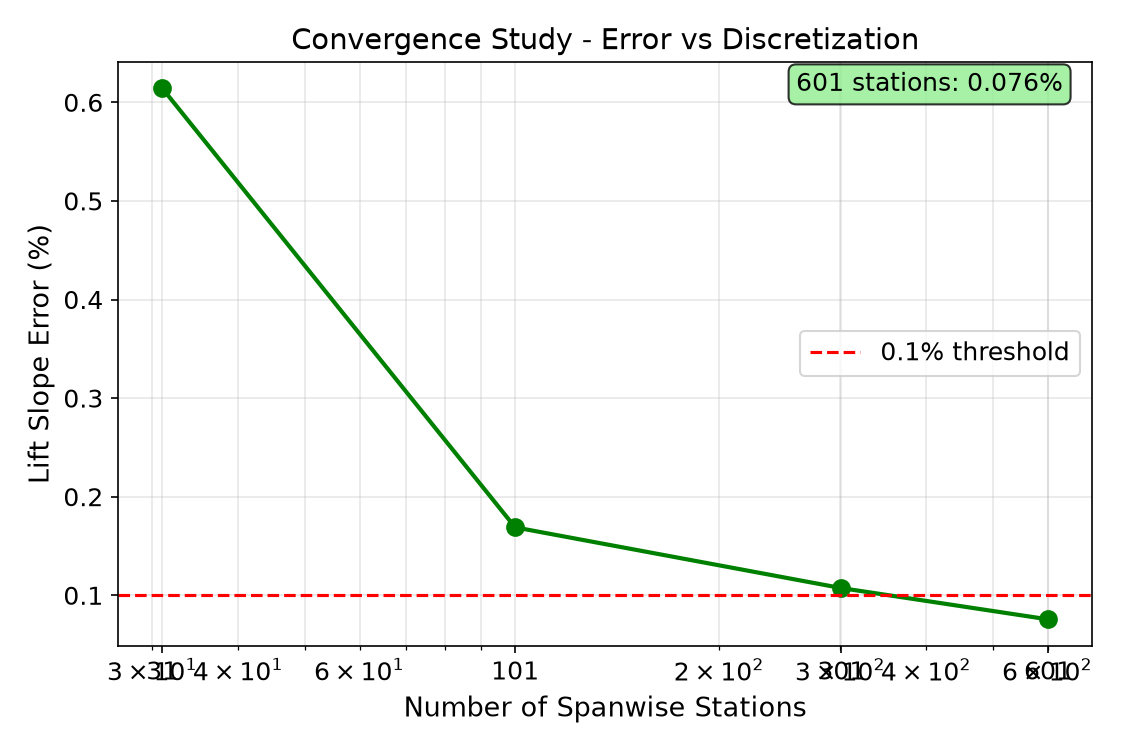
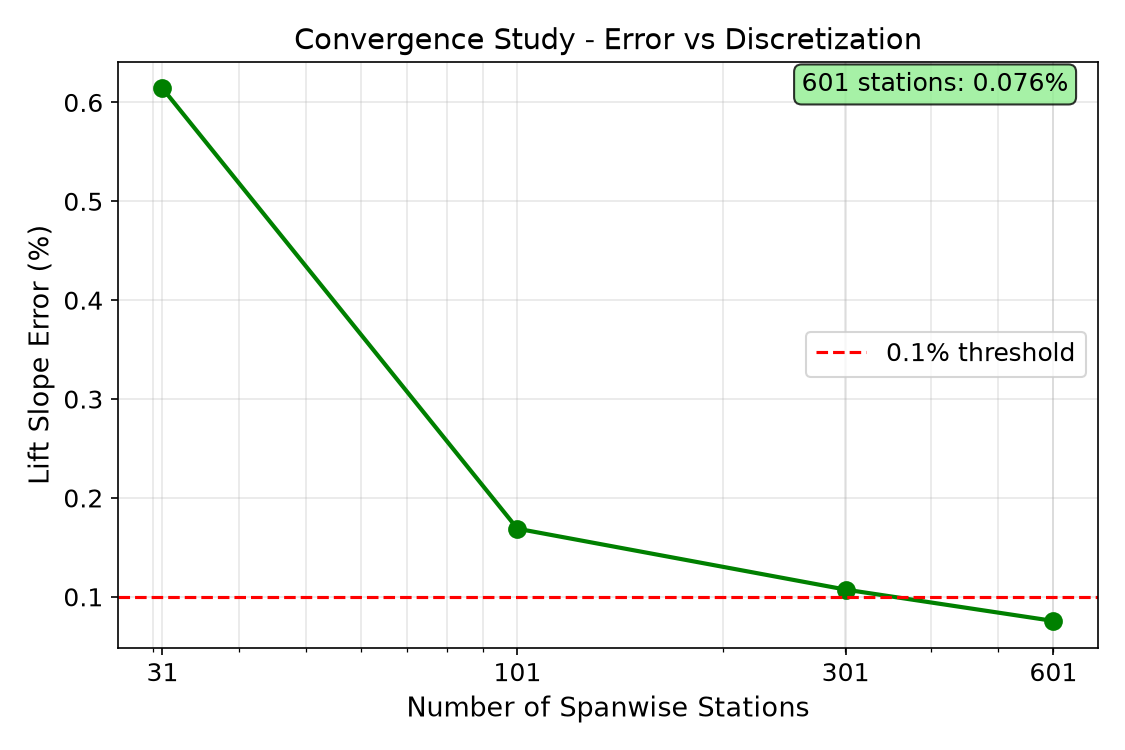
Fix plot formatting: Python convergence ticks, MATLAB legend overlap
Python: disable minor tick labels on semilogx convergence plot
to prevent scientific notation on x-axis.
MATLAB: move legend to 'southwest' so it doesn't block the
601 stations annotation text box.
Regenerate Python PNGs.

diff --git a/_validation/make_validation_plots.py b/_validation/make_validation_plots.py
@@ -77,7 +77,8 @@ ax3.set_title('Convergence Study - Error vs Discretization')
 ax3.legend()
 ax3.grid(True, alpha=0.3, which='both')
 ax3.set_xticks(stations)
-ax3.set_xticklabels([str(s) for s in stations])
+ax3.set_xticklabels(['31', '101', '301', '601'])
+ax3.tick_params(axis='x', which='minor', labelbottom=False)
 ax3.text(0.97, 0.95, '601 stations: 0.076%', transform=ax3.transAxes,
          ha='right', fontsize=12,
          bbox=dict(boxstyle='round', facecolor='lightgreen', alpha=0.8))

diff --git a/_validation/make_validation_plots.m b/_validation/make_validation_plots.m
@@ -91,7 +91,7 @@ plot(xlim, [0.1, 0.1], 'r--', 'LineWidth', 1.5);
 xlabel('Number of Spanwise Stations');
 ylabel('Lift Slope Error (%)');
 title('Convergence Study - Error vs Discretization');
-legend({'LLT (computed)', '0.1% threshold'}, 'Location', 'northeast');
+legend({'LLT (computed)', '0.1% threshold'}, 'Location', 'southwest');
 grid on;
 set(gca, 'XTick', stations);
 set(gca, 'XTickLabel', arrayfun(@num2str, stations, 'UniformOutput', false));
